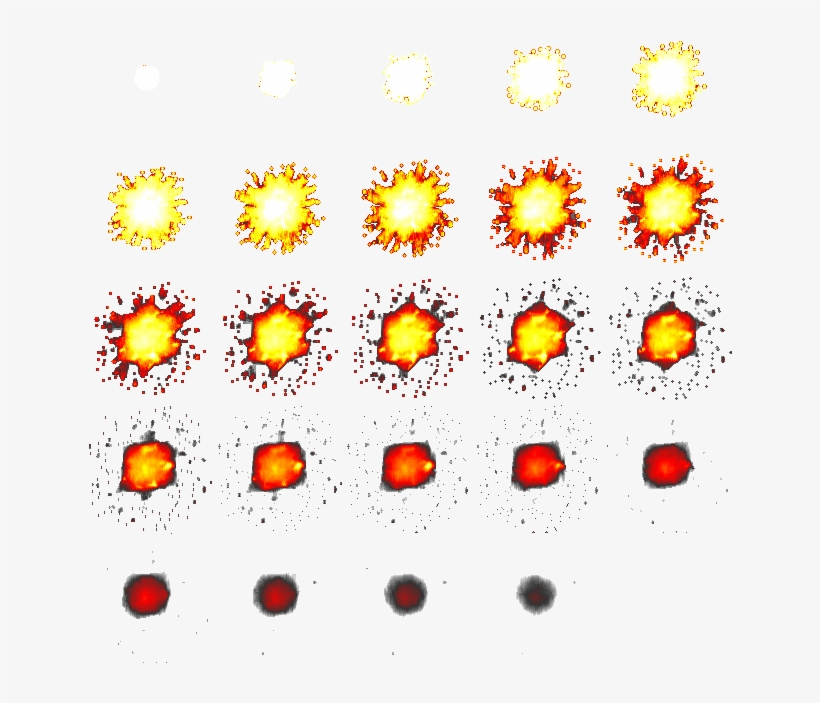
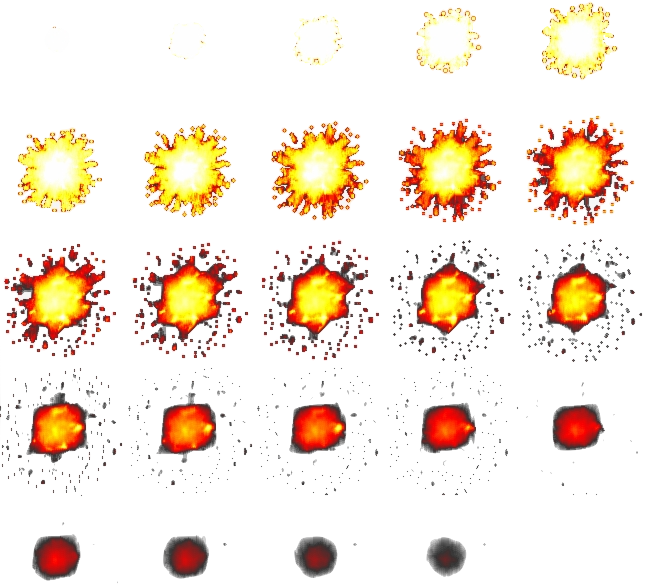
Implementando explosiones mejorando explosiones

diff --git a/THE_QUEST/objects.py b/THE_QUEST/objects.py
@@ -2,18 +2,18 @@
 import pygame as pg
 import random
 from init import *
-
+ #                ---------------------------- Clase Nave -----------------------------
 class Nave(pg.sprite.Sprite):
     def __init__(self):
         super().__init__()
         self.nav= pg.image.load("THE_QUEST/Imagens/Sprites nave1.png").convert()
-        self.image=pg.transform.scale(self.nav, (80, 90))
+        self.image=pg.transform.scale(self.nav, (60, 70))
         self.image.set_colorkey(BLACK)
         
         self.rect=self.image.get_rect()
          
-        self.rect.centerx = WIDTH-10
-        self.rect.centery = HEIGHT//2
+        self.rect.centerx = -10
+        self.rect.centery = 300
         self.animation = ""
         
     def movimiento(self, xmax=800, ymax=600):
@@ -57,7 +57,7 @@ class Nave(pg.sprite.Sprite):
         self.image=pg.transform.scale(self.nav, (80, 90))
         self.image.set_colorkey(BLACK)
 
-    
+     #                ---------------------------- Clase Disparo -----------------------------
         
 class Bullet(pg.sprite.Sprite):
     def __init__(self,x,y) -> None:
@@ -72,11 +72,41 @@ class Bullet(pg.sprite.Sprite):
         self.rect.centerx+=self.vx
         if self.rect.bottom > WIDTH:
             self.kill()
-        
+ #                ---------------------------- Clase Explosion -----------------------------
+            #Genero las listas de las explosiones
+explosion_list=[]
+for i in range(1,24):
+    file="THE_QUEST/Imagens/Explotion/Explosion{}.png".format(i)
+    img=pg.image.load(file).convert_alpha()
+    img.set_colorkey(BLACK)
+    img_scale=pg.transform.scale(img,(50,50))
+    explosion_list.append(img_scale)
 
 
-
-
+class Explosion(pg.sprite.Sprite):
+    def __init__(self, center):
+        super().__init__()
+        self.image= explosion_list[0]
+        self.rect=self.image.get_rect()
+        self.rect.center=center
+        self.frame=0
+        self.last_update = pg.time.get_ticks()
+        self.frame_rate= 20
+    def update(self):
+        self.vx=-3
+        now = pg.time.get_ticks()
+        if now-self.last_update > self.frame_rate:
+            self.last_update=now
+            self.frame+=1
+            if self.frame==len(explosion_list):
+                self.kill()
+            else:
+                center=self.rect.center
+                self.image=explosion_list[self.frame]
+                self.rect = self.image.get_rect()
+                self.rect.center = center
+        self.rect.centerx+=self.vx
+ #                ---------------------------- Clase meteoros -----------------------------
 #esta funcion me permite animar el meteoro
 def meteor_animation():
     animation_list = []

diff --git a/THE_QUEST/pantallas_class.py b/THE_QUEST/pantallas_class.py
@@ -42,7 +42,7 @@ class partidas():
         self.font_titles= pg.font.Font("THE_QUEST/Fonts/Silkscreen-Bold.ttf",30)
         self.font_texto = pg.font.Font("THE_QUEST/Fonts/Silkscreen-Regular.ttf",20)
         self.font_titles2= pg.font.Font("THE_QUEST/Fonts/Silkscreen-Bold.ttf",50)
-        
+         #                ---------------------------- Pantalla Del Juego -----------------------------
     def pantalla_juego(self):
         
         #Grupo nave
@@ -76,10 +76,16 @@ class partidas():
             hits=pg.sprite.groupcollide(self.bullet_list, self.asteroids,True,True)
             for hit in hits:
                 self.score += 10
+                explotar=Explosion(hit.rect.center)
                 asteroid=Meteo()
-                self.asteroids.add(asteroid)
-                
-
+                self.asteroids.add(asteroid,explotar)
+                #Quitar los # para activar las colisiones 
+            hits=pg.sprite.groupcollide(self.nave_sprites, self.asteroids,False,True)
+            #if hits:
+            #    nave=Nave()
+            #    explotar=Explosion()
+            #    self.nave_sprites.add(nave,explotar)
+             #   start=False
             #Dibujo de listas de objetos
             self.bullet_list.draw(self.pantalla)
             self.asteroids.draw(self.pantalla)
@@ -100,17 +106,17 @@ class partidas():
                 self.scroll = 0
                         #Marcadores
             dibujar_texto(self.pantalla,str(self.score),25,WIDTH//2,10)
-            dibujar_texto(self.pantalla,str(int(self.seconds)),25,10,10)
+            dibujar_texto(self.pantalla,str(int(self.seconds)),25,20,10)
             if self.seconds==0:
                 pass
-            elif self.seconds%5==0:
+            elif self.seconds%20==0:
                 print(self.seconds%5)
-                self.score+=100
+                self.score+=1
 
 
             
         pg.quit() 
-
+                     #                ---------------------------- Pantalla Del menu -----------------------------
     def menu_pp(self):
         texto1=self.font_texto.render("Tecla Arriba: para asennder",True,WHITE)
         texto2=self.font_texto.render("Tecla Abajo: para desender",True,WHITE)
@@ -140,7 +146,7 @@ class partidas():
             self.pantalla.blit(texto4,(10,420))
             self.pantalla.blit(texto5,(10,460))
         pg.quit() 
-
+                     #                ---------------------------- Pantalla Game Over -----------------------------
     def game_ov(self):
         texto=self.font_titles2.render("Pulsa Enter",True,WHITE)
         start=True
